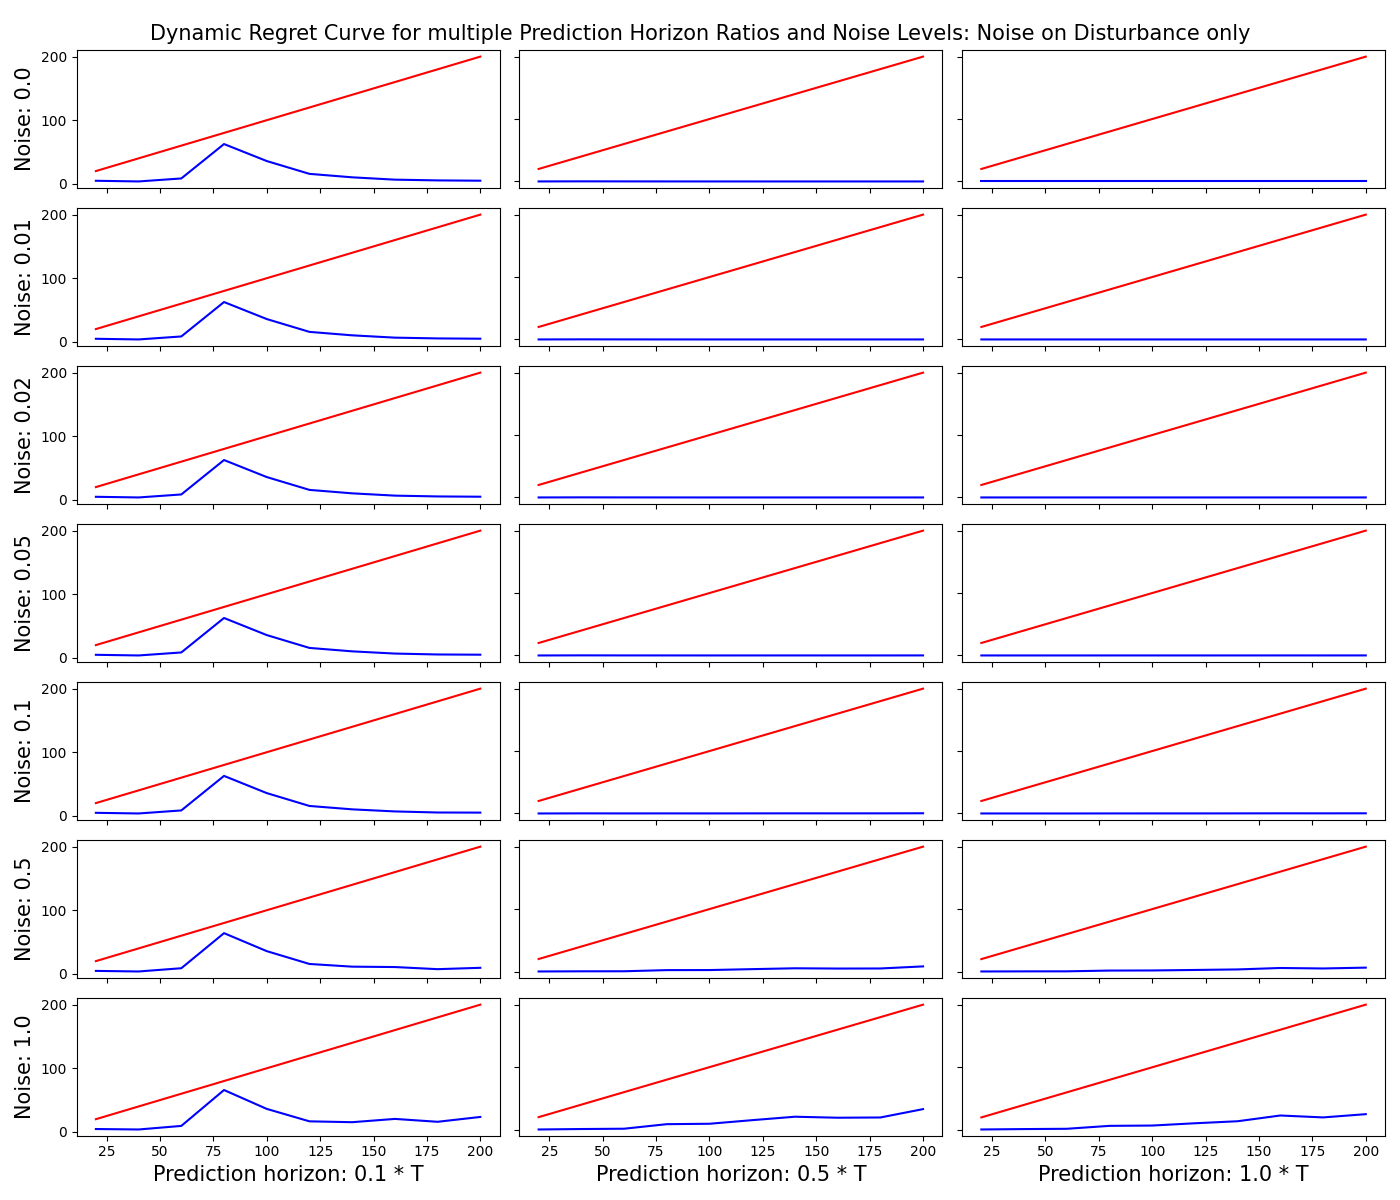
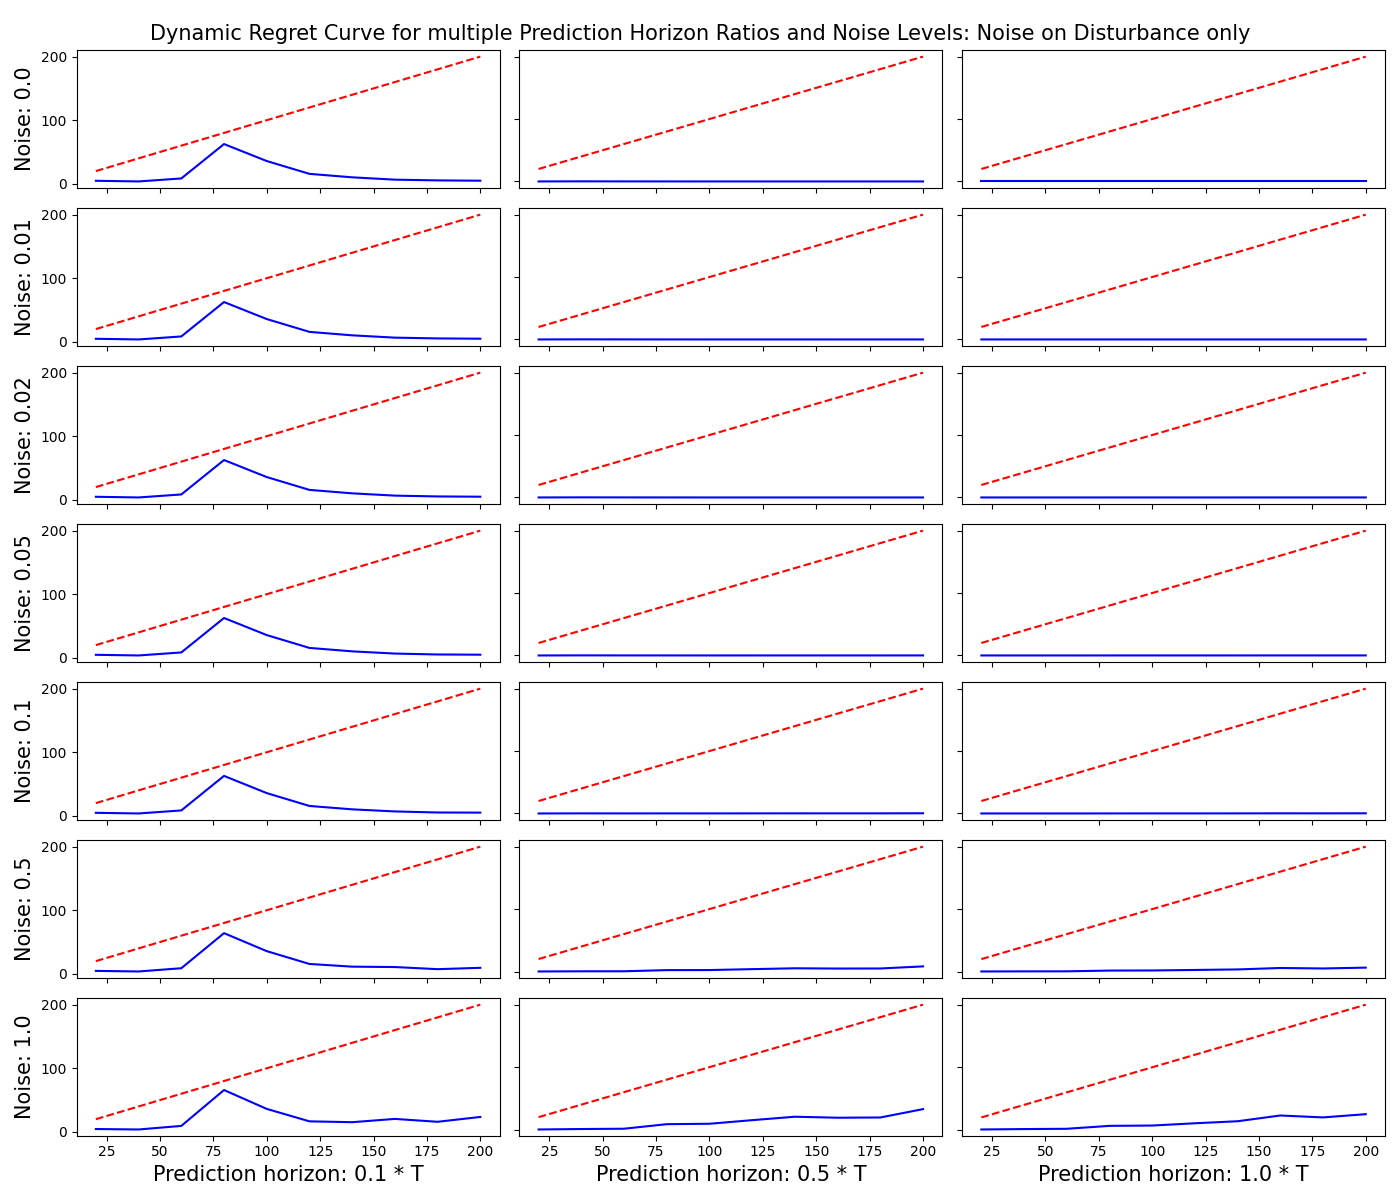
minor

diff --git a/plot_dynamic_regret.py b/plot_dynamic_regret.py
@@ -128,7 +128,7 @@ def create_dynamic_regret_curves():
                 episode_lengths = EPISODE_LENGTHS[:len(regret[row, col])]
                 ax = axs[row, col]
                 ax.plot(episode_lengths, regret[row, col], color='blue')
-                ax.plot(episode_lengths, episode_lengths, color='red')
+                ax.plot(episode_lengths, episode_lengths, color='red', linestyle='--')
                 ax.set_xlabel(f"Prediction horizon: {PREDICTION_HORIZON_RATIOS[col]} * T", fontsize=15)
                 ax.set_ylabel(f"Noise: {PREDICTION_NOISES[row]}", fontsize=15)
 
